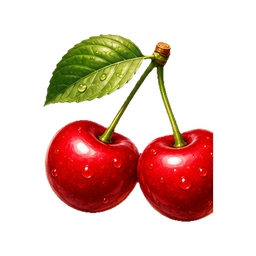
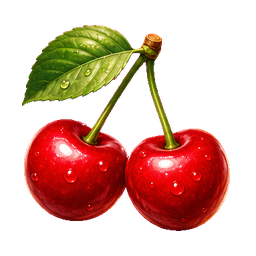
Fix cherry slot symbol clipping

diff --git a/public/styles.css b/public/styles.css
@@ -489,6 +489,11 @@ h2 {
   height: min(82%, 148px);
 }
 
+.slot-reel .slot-symbol.cherry img {
+  width: min(76%, 136px);
+  height: min(76%, 136px);
+}
+
 .slot-result {
   position: relative;
   z-index: 1;

diff --git a/public/app.js b/public/app.js
@@ -29,7 +29,7 @@ const AUDIO_ACTIONS = [
   { key: "showdown", label: "结算" }
 ];
 const SLOT_SYMBOLS = {
-  cherry: { label: "樱桃", icon: "/assets/slots/cherry.png", className: "cherry", triple: "5x", pair: "1x" },
+  cherry: { label: "樱桃", icon: "/assets/slots/cherry-full.png", className: "cherry", triple: "5x", pair: "1x" },
   lemon: { label: "柠檬", icon: "/assets/slots/lemon.png", className: "lemon", triple: "5x", pair: "1x" },
   clover: { label: "四叶草", icon: "/assets/slots/clover.png", className: "clover", triple: "7x", pair: "2x" },
   bell: { label: "金铃", icon: "/assets/slots/bell.png", className: "bell", triple: "9x", pair: "2x" },